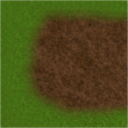
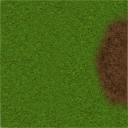
chaning asset blends

diff --git a/battlemaps/src/components/PhaserScene.js b/battlemaps/src/components/PhaserScene.js
@@ -27,6 +27,7 @@ import smallBLBR from "../assets/GrassDirtEdges/smallBLBR.png";
 import smallBLTR from "../assets/GrassDirtEdges/smallBLTR.png";
 import smallTLTR from "../assets/GrassDirtEdges/smallTLTR.png";
 import smallTRBR from "../assets/GrassDirtEdges/smallTRBR.png";
+import smallBLTL from "../assets/GrassDirtEdges/smallBLTL.png";
 
 import splitLR from "../assets/GrassDirtEdges/splitLR.png";
 import splitTB from "../assets/GrassDirtEdges/splitTB.png";
@@ -163,6 +164,7 @@ const PhaserScene = (props) => {
 
         this.load.image("smallTLBR", smallTLBR);
         this.load.image("smallTRBL", smallTRBL);
+        this.load.image("smallBLTL", smallBLTL);
 
         
 
@@ -505,6 +507,34 @@ const PhaserScene = (props) => {
                   this.gameObjects.push(newTile);
                   tileGrid[row][col].type = newTileType;
                 } else if (
+                  touching.grass.top &&
+                  touching.grass.bottom  
+                ) {
+                  let newTileType = "splitTB";
+                  const tileX = col * tileSize;
+                  const tileY = row * tileSize;
+                  let newTile = this.add
+                    .image(tileX, tileY, newTileType)
+                    .setOrigin(0)
+                    .setScale(0.25)
+                    .setRotation();
+                  this.gameObjects.push(newTile);
+                  tileGrid[row][col].type = newTileType;
+                }  else if (
+                  touching.grass.right &&
+                  touching.grass.left  
+                ) {
+                  let newTileType = "splitLR";
+                  const tileX = col * tileSize;
+                  const tileY = row * tileSize;
+                  let newTile = this.add
+                    .image(tileX, tileY, newTileType)
+                    .setOrigin(0)
+                    .setScale(0.25)
+                    .setRotation();
+                  this.gameObjects.push(newTile);
+                  tileGrid[row][col].type = newTileType;
+                }else if (
                   touching.grass.bottom 
                 ) {
                   let newTileType = "edgeB";
@@ -602,7 +632,7 @@ const PhaserScene = (props) => {
                   touching.grass.bottomLeft &&
                   touching.grass.topRight  
                 ) {
-                  let newTileType = "smallBLTR";
+                  let newTileType = "smallTRBL";
                   const tileX = col * tileSize;
                   const tileY = row * tileSize;
                   let newTile = this.add
@@ -641,10 +671,10 @@ const PhaserScene = (props) => {
                   this.gameObjects.push(newTile);
                   tileGrid[row][col].type = newTileType;
                 }  else if (
-                  touching.grass.top &&
-                  touching.grass.bottom  
+                  touching.grass.topLeft &&
+                  touching.grass.bottomLeft  
                 ) {
-                  let newTileType = "splitTB";
+                  let newTileType = "smallBLTL";
                   const tileX = col * tileSize;
                   const tileY = row * tileSize;
                   let newTile = this.add
@@ -655,20 +685,6 @@ const PhaserScene = (props) => {
                   this.gameObjects.push(newTile);
                   tileGrid[row][col].type = newTileType;
                 }  else if (
-                  touching.grass.right &&
-                  touching.grass.left  
-                ) {
-                  let newTileType = "splitRL";
-                  const tileX = col * tileSize;
-                  const tileY = row * tileSize;
-                  let newTile = this.add
-                    .image(tileX, tileY, newTileType)
-                    .setOrigin(0)
-                    .setScale(0.25)
-                    .setRotation();
-                  this.gameObjects.push(newTile);
-                  tileGrid[row][col].type = newTileType;
-                } else if (
                   touching.grass.topRight 
                 ) {
                   let newTileType = "smallTR";
